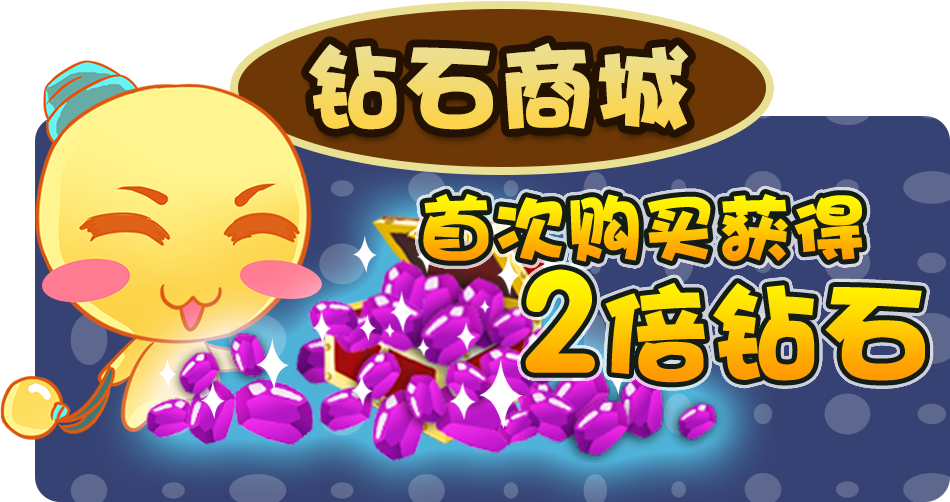
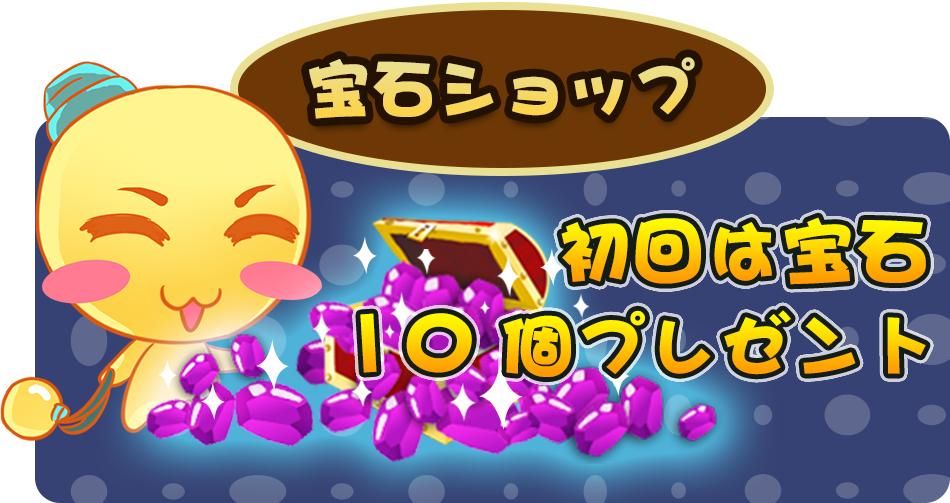
Updated UI for japanese.

diff --git a/platforms/ios/www/index.html b/platforms/ios/www/index.html
@@ -405,10 +405,10 @@
         </div>
         <div class="popup-buttons ui-grid-a clear-both">
             <div class="ui-block-a">
-                <img id="game-popup-pass-share-btn" class="popup-button-left" src="img/button/game-popup-share-btn.png"/>
+                <img id="game-popup-pass-share-btn" class="popup-button-left" src="img/button/share.png"/>
             </div>
             <div class="ui-block-b">
-                <img id="game-popup-pass-next-btn" class="popup-button-right" src="img/button/game-popup-next-btn.png"/>
+                <img id="game-popup-pass-next-btn" class="popup-button-right" src="img/button/next.png"/>
             </div>
         </div>
     </div>
@@ -492,7 +492,7 @@
             <tbody>
             <tr>
                 <td>
-                    <img src="img/button/game-prompt.png" alt="" />
+                    <img src="img/button/game-prompt.png" alt=""/>
                 </td>
                 <td class="help_text">
                     30コイン使うと、そのイラストに関するヒントがもらえます。（例：映画のタイトル　etc）
@@ -500,7 +500,7 @@
             </tr>
             <tr>
                 <td>
-                    <img src="img/button/game-cutdown.png" alt="" />
+                    <img src="img/button/game-cutdown.png" alt=""/>
                 </td>
                 <td class="help_text">
                     50コイン使うと、下に表示されている文字を何個か消すことができます。
@@ -508,7 +508,7 @@
             </tr>
             <tr>
                 <td>
-                    <img src="img/button/game-getchar.png" alt="" />
+                    <img src="img/button/game-getchar.png" alt=""/>
                 </td>
                 <td class="help_text">
                     90コイン使うと、答えが1文字表示されます。
@@ -516,7 +516,7 @@
             </tr>
             <tr>
                 <td>
-                    <img src="img/button/game-share.png" alt="" />
+                    <img src="img/button/game-share.png" alt=""/>
                 </td>
                 <td class="help_text">
                     シェアをして友達に聞いてみるのも良いですね！シェアをすると1日10コインがGETできます。
@@ -526,7 +526,7 @@
         </table>
 
         <p class="p1 pay_title">
-            <img src="img/icon/gem-one.png" alt="" />
+            <img src="img/icon/gem-one.png" alt=""/>
             <span>宝石について</span>
         </p>
         <p dir="ltr" class="pay_des">
@@ -537,7 +537,7 @@
         </p>
 
         <p class="p1 pay_title">
-            <img src="img/icon/coin-one.png" alt="" />
+            <img src="img/icon/coin-one.png" alt=""/>
             <span>コインについて</span>
         </p>
         <p dir="ltr" class="pay_des">

diff --git a/platforms/ios/www/css/index.css b/platforms/ios/www/css/index.css
@@ -880,13 +880,13 @@ p {
 }
 
 #game-popup-pass-info {
-    margin: 5em 0 0 5em;
+    margin: 5em 0 0 4em;
 }
 
 #game-popup-pass-bonus-bg {
     float: left;
-    width: 5em;
-    height: 4em;
+    width: 8em;
+    height: 5em;
     margin-right: 1em;
     background: url(../img/layout/game-popup-bonus-text.png) no-repeat;
     background-size: 100%;
@@ -906,6 +906,7 @@ p {
     height: 4em;
     margin: .1em 0 0 0;
     font-size: 1.5em;
+    color: #fccd04;
     text-shadow: none;
 }
 
@@ -928,6 +929,7 @@ p {
     left: 50%;
     margin-left: -5em;
     text-shadow: none;
+    color: #fccd04;
 }
 
 /*******************************************************************/
@@ -1171,7 +1173,7 @@ li:hover {
 }
 
 .help-body {
-    overflow:scroll;
+    overflow: scroll;
     background-color: #6F451C;
     height: 84%;
     margin: 0 .5em 0 .5em;
@@ -1180,16 +1182,16 @@ li:hover {
 #help-guide .title {
     text-align: center;
     padding: 5px;
-    font-weight: bold; 
-    font-size: 21px; 
+    font-weight: bold;
+    font-size: 21px;
     color: #FFFFFF;
 }
 
 #help-guide .des {
     font-size: 14px;
-    text-align: left; 
-    color: #FFFFFF; 
-    margin:5px;
+    text-align: left;
+    color: #FFFFFF;
+    margin: 5px;
 }
 
 #help-guide table {
@@ -1202,8 +1204,8 @@ li:hover {
 }
 
 #help-guide table td img {
-    width:40px;
-    height:50px;
+    width: 40px;
+    height: 50px;
     border: 0;
 }
 
@@ -1219,23 +1221,23 @@ li:hover {
 
 #help-guide .pay_title img {
     border: 0;
-    margin: 0px; 
-    width: 40px; 
+    margin: 0px;
+    width: 40px;
     height: 40px;
 }
 
 #help-guide .pay_title span {
-    font-size: 18px; 
-    font-weight: bold; 
-    color: #FFFFFF; 
-    margin:5px;
+    font-size: 18px;
+    font-weight: bold;
+    color: #FFFFFF;
+    margin: 5px;
 }
 
 #help-guide .pay_des {
     font-size: 14px;
-    text-align: left; 
-    color: #FFFFFF; 
-    margin:5px;
+    text-align: left;
+    color: #FFFFFF;
+    margin: 5px;
 }
 
 #help-guide .contact {
@@ -1244,8 +1246,8 @@ li:hover {
 }
 
 #help-guide .contact span {
-    font-weight: bold; 
-    font-size: 14px; 
+    font-weight: bold;
+    font-size: 14px;
     color: #FFFFFF;
 }
 

diff --git a/platforms/ios/www/js/page/Game.js b/platforms/ios/www/js/page/Game.js
@@ -97,8 +97,14 @@ CQ.Page.Game = {
 
     initPopups: function() {
         $(CQ.Id.Game.$POPUP_PASS).bind(this.popupEvents);
-        $(CQ.Id.Game.$POPUP_NEXT).click(CQ.Page.Game.clickNext);
-        $(CQ.Id.Game.$POPUP_SHARE).click(function() {
+
+        var $nextBtn = $(CQ.Id.Game.$POPUP_NEXT);
+        this.bindTouchImage($nextBtn, CQ.Id.Image.BTN_NEXT_TAP, CQ.Id.Image.BTN_NEXT);
+        $nextBtn.click(CQ.Page.Game.clickNext);
+
+        var $shareBtn = $(CQ.Id.Game.$POPUP_SHARE);
+        this.bindTouchImage($shareBtn, CQ.Id.Image.BTN_SHARE_TAP, CQ.Id.Image.BTN_SHARE);
+        $shareBtn.click(function() {
             CQ.Audio.Button.play();
             CQ.Page.openPopup(CQ.Page.Game.share);
             CQ.GA.track(CQ.GA.Share.Click, CQ.Utils.getCapitalName(CQ.Page.Game.name));

diff --git a/platforms/ios/www/mockup/answer.html b/platforms/ios/www/mockup/answer.html
@@ -34,10 +34,10 @@
         </div>
         <div class="popup-buttons ui-grid-a clear-both">
             <div class="ui-block-a">
-                <img id="game-popup-pass-share-btn" class="popup-button-left" src="../img/button/game-popup-share-btn.png"/>
+                <img id="game-popup-pass-share-btn" class="popup-button-left" src="../img/button/share.png"/>
             </div>
             <div class="ui-block-b">
-                <img id="game-popup-pass-next-btn" class="popup-button-right" src="../img/button/game-popup-next-btn.png"/>
+                <img id="game-popup-pass-next-btn" class="popup-button-right" src="../img/button/next.png"/>
             </div>
         </div>
     </div>

diff --git a/platforms/ios/www/js/app/Id.js b/platforms/ios/www/js/app/Id.js
@@ -63,6 +63,11 @@ CQ.Id = {
         CURRENCY_ADD: 'img/button/currency-add.png',
         CURRENCY_ADD_TAP: 'img/button/currency-add-tap.png',
 
+        BTN_SHARE: 'img/button/share.png',
+        BTN_SHARE_TAP: 'img/button/share-tap.png',
+        BTN_NEXT: 'img/button/next.png',
+        BTN_NEXT_TAP: 'img/button/next-tap.png',
+
         POPUP_YES: 'img/button/button-yes.png',
         POPUP_YES_TAP: 'img/button/button-yes-tap.png',
         POPUP_NO: 'img/button/button-no.png',
